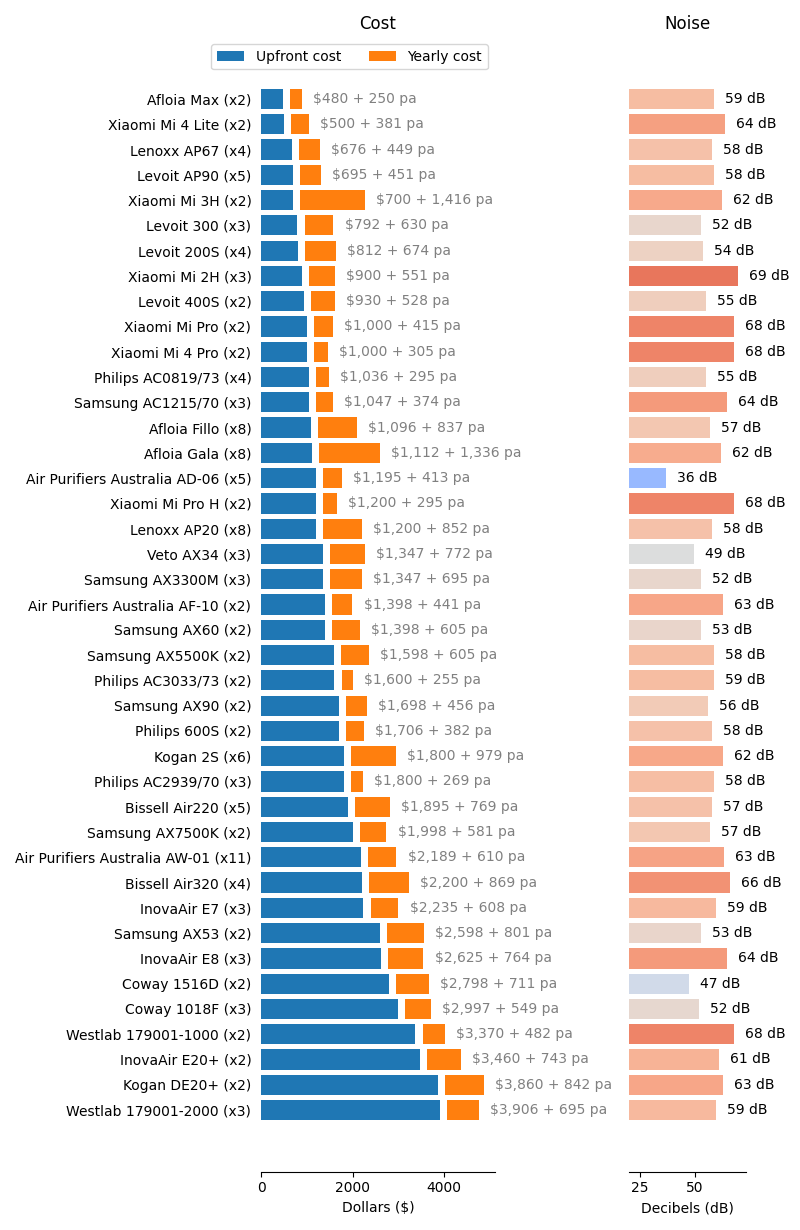
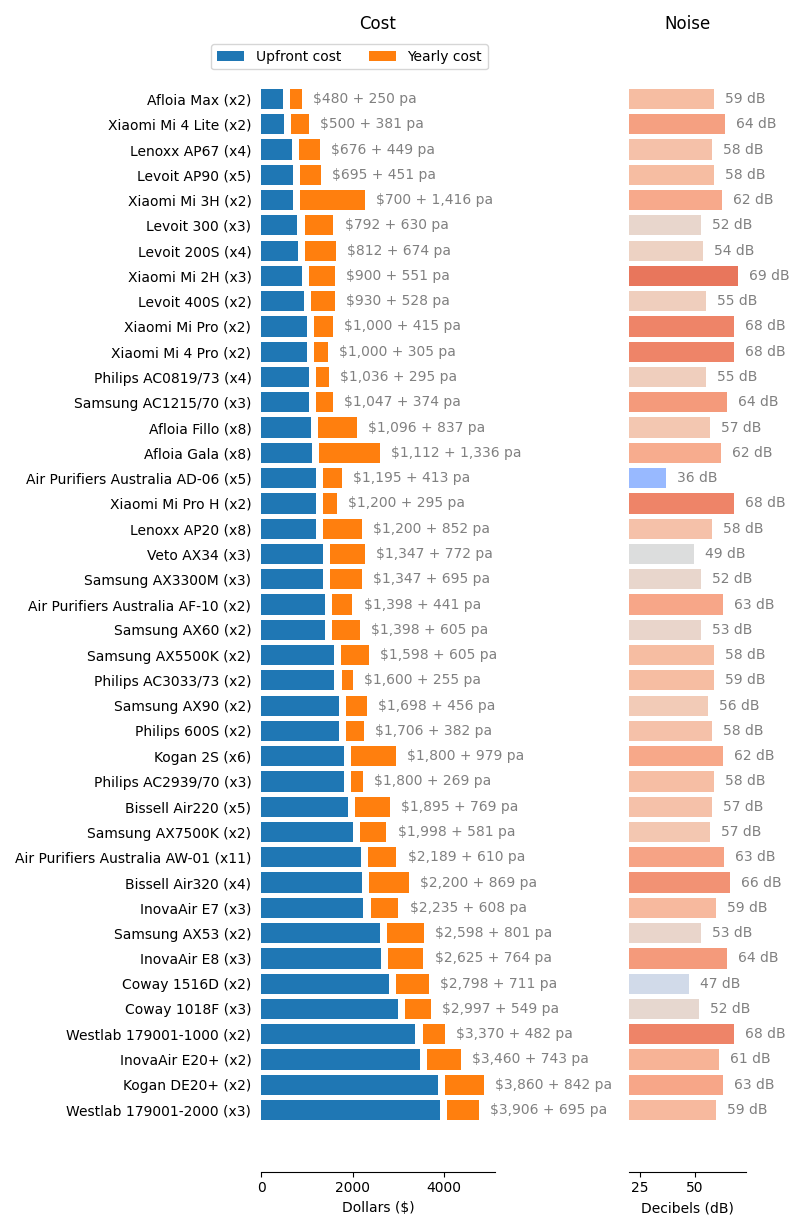
Quick push

diff --git a/products/dashboard.html b/products/dashboard.html
@@ -1,4 +1,30 @@
 
+<!DOCTYPE html>
+<html>
+<head>
+<title>Air Cleaning Dashboard</title>
+</head>
+<body>
+<h1>Air Cleaning Dashboard</h1>
+<p>
+With so many air cleaning devices on the market, how do we know which product is best for us? Flick through our data to see what's on offer and find the solution that's right for you.
+</p>
+<div>
+<div>
+<h2>Overview Chart</h2>
+<p>
+This chart brings all of our data together in one graphic. Based on a typical medium-sized room and a safe standard of air quality, this chart asks: how many fresh air changes can this device buy me for the cost of a single dollar (left to right, where right is better), and how many typical medium-sized rooms can it keep clean (bottom to top, where top is better). The colour gives a sense of how noisy the device is (blue to red, where blue is better).
+</p>
+<div align="center">
+<img id = 'synoptic' src='https://rsbyrne.github.io/aircleaning/products/synoptic.png' alt="Synoptic"> 
+</div>
+</div>
+<div>
+<h2>Decision Tool</h2>
+<p>
+Every room is different. Answer these quick questions to sort the data by what's most economical for you. The running costs and noise levels are calculated using manufacturer data and the likely level of use we predict you would need to keep your room clean to the level you've specified. For those cases where a single device just won't do job, we've calculated how many of that device you would need, and how noisy and costly they would all be together.
+</p>
+<div>
 <script>
     function update (form){
         for (vol = 0; vol < 3; vol++) {
@@ -39,9 +65,11 @@
     </form>
     <img id = 'chosenimage' src='https://rsbyrne.github.io/aircleaning/products/placeholder.png' alt="Cost analysis">
 </div>
-<div align="center">
-    <img id = 'synoptic' src='https://rsbyrne.github.io/aircleaning/products/synoptic.png' alt="Synoptic"> 
-</div>
 <script>
     update(document.getElementById('userinput'))
 </script>
+</div>
+</div>
+</div>
+</body>
+</html>

diff --git a/aircleaning/produce.py b/aircleaning/produce.py
@@ -76,7 +76,7 @@ def cost_analysis(volume, quality, path=productsdir, name='default'):
     ax2.set_xlabel('Decibels (dB)')
     ax2.set_title('Noise')
     ax2.set_xlim(20)
-    ax2.bar_label(bars, label_type='edge', padding=8, fmt='%d dB')
+    ax2.bar_label(bars, label_type='edge', padding=8, fmt='%d dB', color='grey')
     ax2.spines['top'].set_visible(False)
     ax2.spines['right'].set_visible(False)
     ax2.spines['left'].set_visible(False)
@@ -108,7 +108,44 @@ def dashboard(path=productsdir, name='dashboard'):
 
     vols, quals = load.get_volume_data(), load.get_quality_data()
 
-    strn = '\n' + '\n'.join((
+    strn = ''
+
+    strn += '\n' + '\n'.join((
+        '''<!DOCTYPE html>''',
+        '''<html>''',
+        '''<head>''',
+        '''<title>Air Cleaning Dashboard</title>''',
+        '''</head>''',
+        '''<body>''',
+        '''<h1>Air Cleaning Dashboard</h1>''',
+        '''<p>''',
+        '''With so many air cleaning devices on the market, how do we know which product is best for us? Flick through our data to see what's on offer and find the solution that's right for you.''',
+        '''</p>''',
+        '''<div>''',
+        ))
+
+    strn += '\n' + '\n'.join((
+        '''<div>''',
+        '''<h2>Overview Chart</h2>''',
+        '''<p>''',
+        '''This chart brings all of our data together in one graphic. Based on a typical medium-sized room and a safe standard of air quality, this chart asks: how many fresh air changes can this device buy me for the cost of a single dollar (left to right, where right is better), and how many typical medium-sized rooms can it keep clean (bottom to top, where top is better). The colour gives a sense of how noisy the device is (blue to red, where blue is better).''',
+        '''</p>''',
+        '''<div align="center">''',
+        '''<img id = 'synoptic' src='https://rsbyrne.github.io/aircleaning/products/synoptic.png' alt="Synoptic"> ''',
+        '''</div>''',
+        '''</div>''',
+        ))
+
+    strn += '\n' + '\n'.join((
+        '''<div>''',
+        '''<h2>Decision Tool</h2>''',
+        '''<p>''',
+        '''Every room is different. Answer these quick questions to sort the data by what's most economical for you. The running costs and noise levels are calculated using manufacturer data and the likely level of use we predict you would need to keep your room clean to the level you've specified. For those cases where a single device just won't do job, we've calculated how many of that device you would need, and how noisy and costly they would all be together.''',
+        '''</p>''',
+        '''<div>''',
+        ))
+
+    strn += '\n' + '\n'.join((
         '''<script>''',
         '''    function update (form){''',
         '''        for (vol = 0; vol < 3; vol++) {''',
@@ -151,18 +188,21 @@ def dashboard(path=productsdir, name='dashboard'):
         ))
 
     strn += '\n' + '\n'.join((
-        '''<div align="center">''',
-        '''    <img id = 'synoptic' src='https://rsbyrne.github.io/aircleaning/products/synoptic.png' alt="Synoptic"> ''',
-        '''</div>''',
-        ))
-
-    strn += '\n' + '\n'.join((
         '''<script>''',
         '''    update(document.getElementById('userinput'))''',
         '''</script>''',
         ))
 
-    strn += '\n'
+    strn += '\n' + '\n'.join((
+        '''</div>''',
+        '''</div>''',
+        ))
+
+    strn += '\n' + '\n'.join((
+        '''</div>''',
+        '''</body>''',
+        '''</html>''',
+        ))
 
     with open(os.path.join(productsdir, name) + '.html', mode='w') as file:
         file.write(strn)
@@ -189,28 +229,29 @@ def synoptic(path=productsdir):
 
     fig, ax = plt.subplots()
 
-    fig.set_size_inches(12, 12)
+    fig.set_size_inches(8, 8)
     fig.set_tight_layout(True)
 
     ax.scatter(
         data['efficiency'], data['maxsize'],
-        c=noisecolours, s=80, edgecolors='grey'
+        c=noisecolours, s=60, edgecolors='grey'
         )
     ax.set_xlabel('Clean air changes per dollar')
     ax.set_ylabel("Maximum safe room size (single device)")
 
     plt.colorbar(
         mpl.cm.ScalarMappable(norm=norm, cmap=cmap),
-        # cax=ax,
+        cax=ax.inset_axes((0.65, 0.08, 0.3, 0.03)),
         label='Noise (single device) (dB)',
-        shrink=0.33, location='top'
+        orientation='horizontal',
+        shrink=0.1
         )
 
     adjust_text(
         tuple(
             ax.text(
                 x, y, txt,
-                color="#4d4d4d", fontsize=8, fontname="DejaVu Sans",
+                color="#4d4d4d", fontsize=6, fontname="DejaVu Sans",
                 )
             for txt, x, y in zip(
                 map('\n'.join, data.index),

diff --git a/update.py b/update.py
@@ -7,6 +7,9 @@ if __name__ != '__main__':
     raise RuntimeError("This script expects to be executed.")
 
 
+print("Running application code...")
+
+
 import os
 
 from aircleaning import load, analyse, produce
@@ -19,6 +22,9 @@ productsdir = os.path.join(repodir, 'products')
 produce.multi_cost_analysis()
 produce.synoptic()
 produce.dashboard()
+
+
+print("Application code ran successfully.")
 
 
 ###############################################################################
